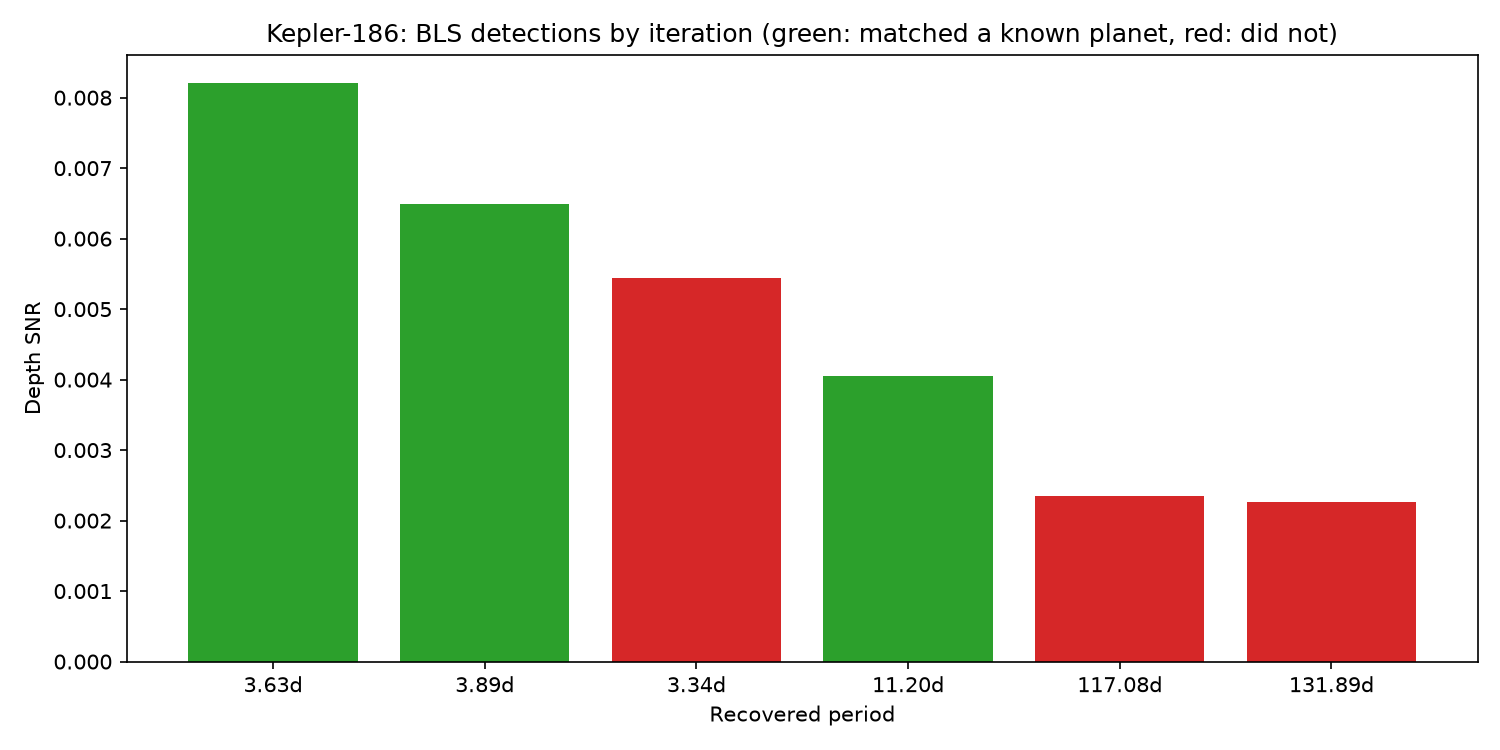
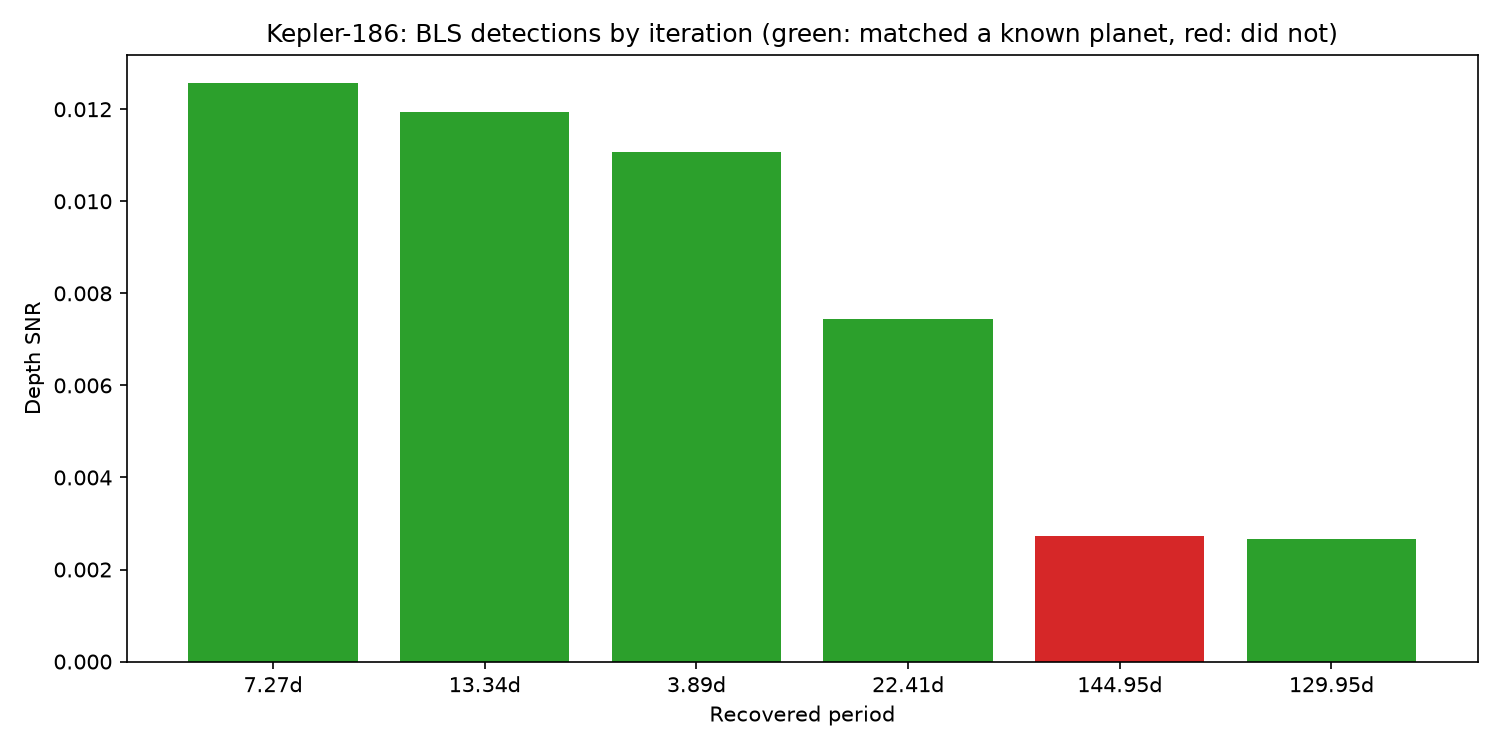
Fix BLS period-grid regression: keep astropy's duration-aware spacing
The previous commit on this branch (81921d2) replaced astropy's
autopower grid with one spaced only by 1/baseline to fix Kepler-90's
hang. That was wrong: it dropped the duration term entirely, and
re-running TRAPPIST-1 on the same fix (never touched by the Kepler-90
bug, since its baseline is short) showed the regression immediately,
0 of 7 planets matched, down from 6 of 7 on main. A narrow transit
needs finer period sampling than baseline alone accounts for, which is
exactly what astropy's formula (df = frequency_factor * min(duration)
divided by baseline squared, see astropy's bls/core.py) is for.

Correct fix: keep astropy's autopower and its formula as-is, only
raise frequency_factor, and only just enough to keep the grid under
max_grid_points, when the requested value would exceed it. TRAPPIST-1
computes to about 59300 grid points at frequency_factor=5, under the
200000 cap, so it is untouched and reproduces the original 6 of 7
result exactly. Kepler-90's grid at frequency_factor=5 would be about
7 million points, so it gets automatically raised to about 176,
capping at 200000 points while keeping the correct duration-aware
shape rather than a differently-shaped, wrong grid.

Re-ran both Kepler targets with the fix:

Kepler-90: 6 of 8 planets recovered, all direct matches (no harmonics
needed this time), every match under 0.006 percent period error.
Planets g and h, the two longest-period planets, not recovered. This
[…]

diff --git a/src/exodetect/bls.py b/src/exodetect/bls.py
@@ -36,36 +36,41 @@ def _default_duration_grid(min_period: float) -> np.ndarray:
     return grid[grid < 0.5 * min_period]
 
 
-def _build_period_grid(
+def _effective_frequency_factor(
     time: np.ndarray,
     min_period: float,
     max_period: float,
-    n_oversample: float = 5.0,
-    max_grid_points: int = 200_000,
-) -> np.ndarray:
-    """Build a period grid oversampled relative to the natural frequency
-    resolution of the observing baseline (1/baseline), rather than using
-    astropy's BoxLeastSquares.autopower default.
+    duration_grid: np.ndarray,
+    frequency_factor: float,
+    max_grid_points: int,
+) -> float:
+    """Raise frequency_factor only as far as needed to keep the period grid tractable.
 
-    autopower's frequency step scales as frequency_factor * min(duration)
-    / baseline**2. That is fine for a single-quarter or single-sector
-    baseline, but for a multi-year stitched baseline (Kepler-90, several
-    years) combined with a short minimum duration (tens of minutes), it
-    produces tens of millions of grid points and effectively hangs. This
-    grid instead scales with 1/baseline, the standard frequency resolution
-    for a periodic search, oversampled by n_oversample, and stays bounded
-    by max_grid_points regardless of baseline or duration.
+    astropy's BoxLeastSquares.autoperiod sets its frequency step to
+    df = frequency_factor * min(duration) / baseline**2 (see astropy's
+    timeseries/periodograms/bls/core.py). That duration-aware spacing is
+    correct and necessary: a narrow transit needs finer period sampling
+    to avoid drifting out of phase over many cycles, which is exactly why
+    a naive 1/baseline-only grid (tried first, see git history) silently
+    lost TRAPPIST-1's known periods by under-resolving them.
+
+    The problem is only that this formula's grid size can explode for a
+    long, multi-quarter/multi-year baseline (e.g. Kepler-90's ~4 years)
+    combined with a short minimum duration, producing tens of millions of
+    points. Rather than replace astropy's formula, this only increases
+    frequency_factor, and only when the requested value would exceed
+    max_grid_points, which coarsens the correct duration-aware grid
+    rather than substituting a differently-shaped one.
     """
     baseline = np.max(time) - np.min(time)
-    df = 1.0 / (n_oversample * baseline)
-    f_min = 1.0 / max_period
-    f_max = 1.0 / min_period
-    n_freq = int(np.ceil((f_max - f_min) / df))
-    if n_freq > max_grid_points:
-        df = (f_max - f_min) / max_grid_points
-        n_freq = max_grid_points
-    freqs = f_min + df * np.arange(1, n_freq + 1)
-    return np.sort(1.0 / freqs)
+    min_duration = np.min(duration_grid)
+    df = frequency_factor * min_duration / baseline**2
+    f_min, f_max = 1.0 / max_period, 1.0 / min_period
+    n_freq = (f_max - f_min) / df
+    if n_freq <= max_grid_points:
+        return frequency_factor
+    required_df = (f_max - f_min) / max_grid_points
+    return required_df * baseline**2 / min_duration
 
 
 def run_bls(
@@ -74,21 +79,31 @@ def run_bls(
     min_period: float,
     max_period: float,
     duration_grid: np.ndarray = None,
-    n_oversample: float = 5.0,
+    frequency_factor: float = 5.0,
+    max_grid_points: int = 200_000,
 ):
     """Run a single BLS search over a period range, return the model and best-fit result.
 
-    n_oversample controls period-grid density relative to the natural
-    frequency resolution of the observing baseline (higher = finer grid
-    = slower but less alias risk). See _build_period_grid for why this
-    replaces astropy's autopower.
+    frequency_factor controls period-grid density (astropy's autopower
+    convention: higher = coarser grid = faster but more alias risk).
+    Automatically raised above the requested value, but never lowered,
+    if the resulting grid would exceed max_grid_points, see
+    _effective_frequency_factor.
     """
     if duration_grid is None:
         duration_grid = _default_duration_grid(min_period)
 
+    effective_ff = _effective_frequency_factor(
+        time, min_period, max_period, duration_grid, frequency_factor, max_grid_points,
+    )
+
     model = BoxLeastSquares(time * u.day, flux)
-    period_grid = _build_period_grid(time, min_period, max_period, n_oversample=n_oversample)
-    periodogram = model.power(period_grid * u.day, duration_grid * u.day)
+    periodogram = model.autopower(
+        duration_grid * u.day,
+        minimum_period=min_period * u.day,
+        maximum_period=max_period * u.day,
+        frequency_factor=effective_ff,
+    )
     best_idx = np.argmax(periodogram.power)
     stats = model.compute_stats(
         periodogram.period[best_idx],
@@ -127,7 +142,8 @@ def iterative_bls_search(
     max_period: float,
     min_snr: float | None = None,
     duration_grid: np.ndarray = None,
-    n_oversample: float = 5.0,
+    frequency_factor: float = 5.0,
+    max_grid_points: int = 200_000,
 ):
     """Run BLS, mask the detected transits, repeat, up to n_iterations times.
 
@@ -152,7 +168,8 @@ def iterative_bls_search(
             min_period=min_period,
             max_period=max_period,
             duration_grid=duration_grid,
-            n_oversample=n_oversample,
+            frequency_factor=frequency_factor,
+            max_grid_points=max_grid_points,
         )
         if min_snr is not None and detection.snr < min_snr:
             break
